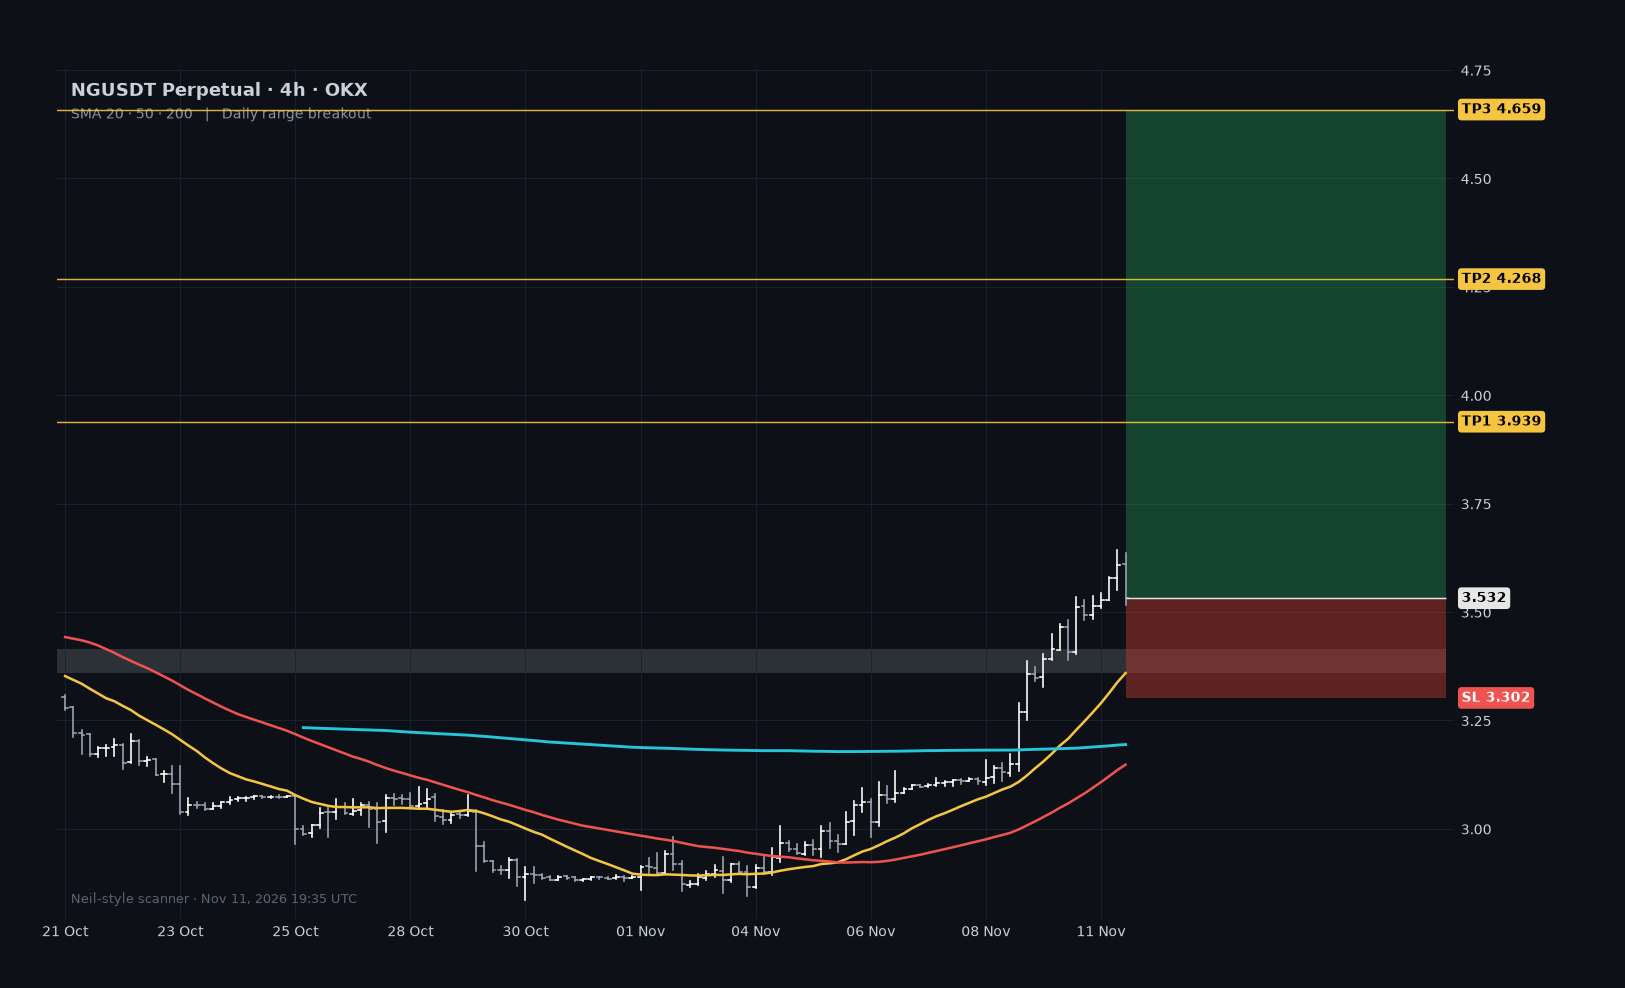
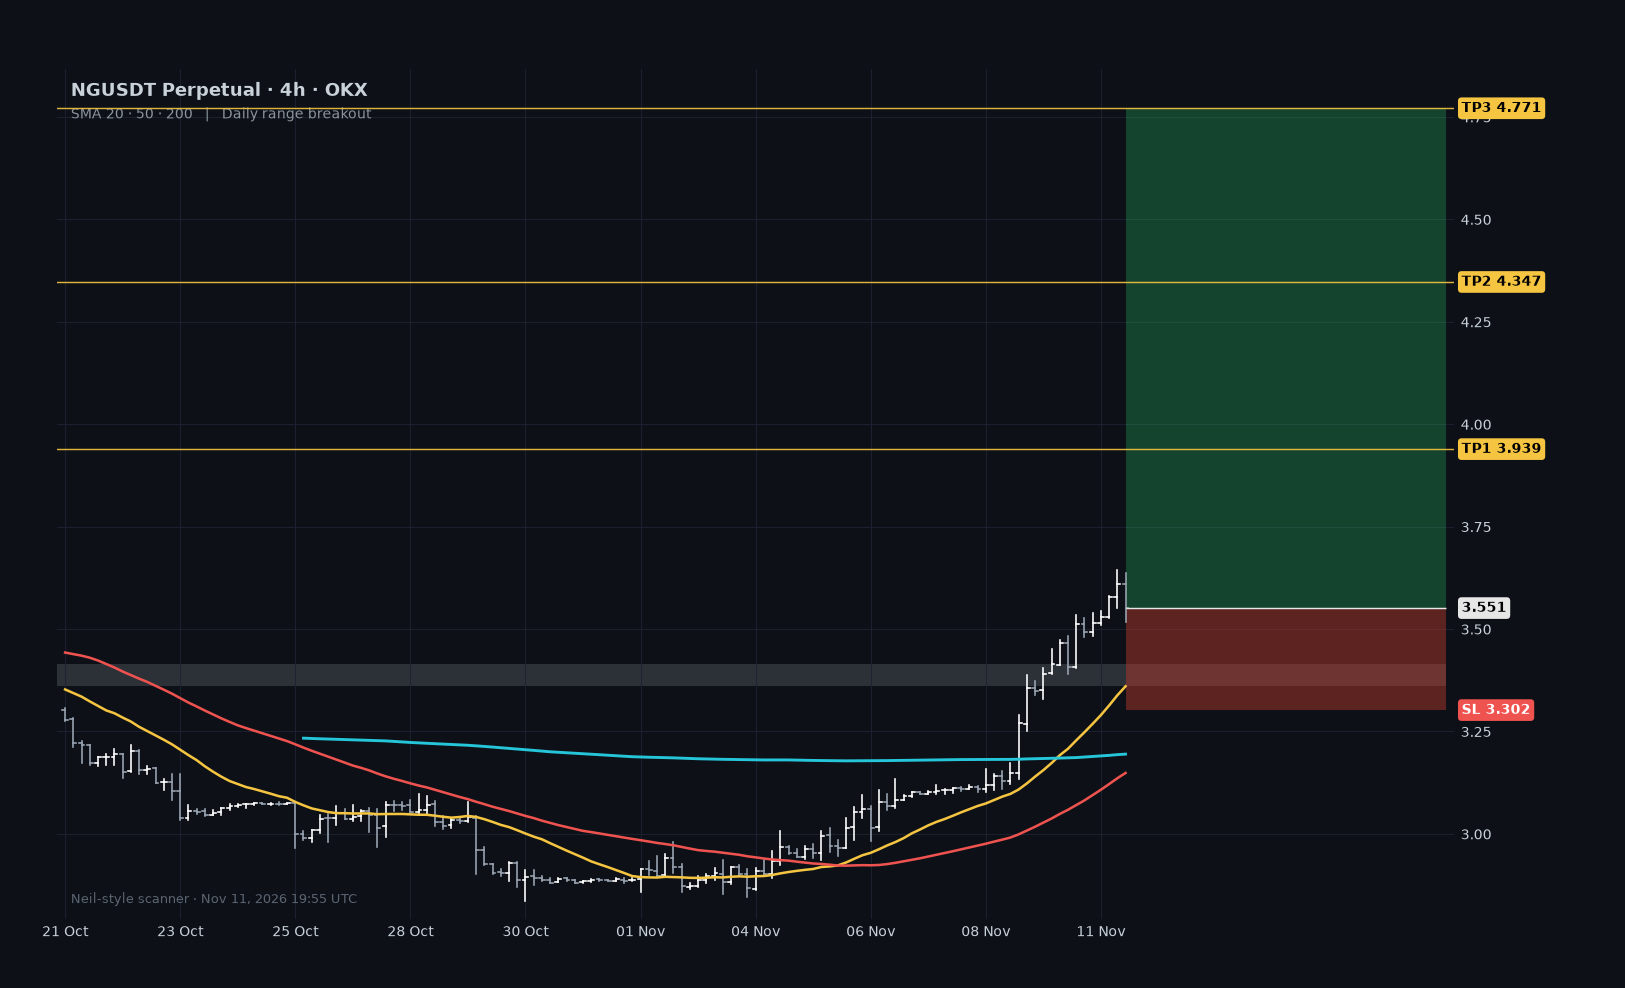
scan 2026-11-11 [skip ci]

diff --git a/output/report.md b/output/report.md
@@ -1,14 +1,14 @@
 # Neil-style setups — 2026-11-11
 
-**BTC context:** BTC chopping around its 4H MAs — no fresh breakdown, but keep size normal and stops honest. (3d -2.1%)
+**BTC context:** BTC chopping around its 4H MAs — no fresh breakdown, but keep size normal and stops honest. (3d -2.0%)
 
-Scanned 157 USDT perps; 35 raw setups; showing top 3.
+Scanned 157 USDT perps; 39 raw setups; showing top 3.
 
 ## 1. ORCL — 4H SR flip / retest  (score 9.5)
 
-> Market long ORCL here at CMP (129.2). No DCA, 4H close under 126.7 for stops, TPs above — TP1 134.6 (2.2R) · TP2 138.5 (3.7R) · TP3 145.6 (6.6R). Once TP1 hits, stops to BE. SR flip trade — level flipped and holding, looking for continuation higher.
+> Market long ORCL here at CMP (129.51). No DCA, 4H close under 126.7 for stops, TPs above — TP1 134.6 (1.8R) · TP2 138.5 (3.2R) · TP3 145.6 (5.7R). Once TP1 hits, stops to BE. SR flip trade — level flipped and holding, looking for continuation higher.
 
-Risk to stop: 1.93% · TP1 2.2R · TP2 3.7R · TP3 6.6R
+Risk to stop: 2.17% · TP1 1.8R · TP2 3.2R · TP3 5.7R
 
 Why it qualifies:
 - 4H closed above the 128.27 resistance 2 bars ago and is holding above it, low already retested the level
@@ -16,15 +16,15 @@ Why it qualifies:
 - reclaim bar volume 2.5x the 20-bar average
 - above the 1H/4H 200MA
 - still under the daily 200MA
-- 7d: +4.0% vs BTC -7.7% (RS +11.6%)
+- 7d: +4.2% vs BTC -7.5% (RS +11.8%)
 
 ![chart](output/charts/2026-11-11_ORCL.png)
 
 ## 2. AVGOSTOCK — 4H SR flip / retest  (score 9.2)
 
-> Market long AVGOSTOCK here at CMP (349.43). No DCA, 4H close under 342.3 for stops, TPs above — TP1 366.2 (2.4R) · TP2 376.1 (3.7R) · TP3 408.1 (8.2R). Once TP1 hits, stops to BE. SR flip trade — level flipped and holding, looking for continuation higher.
+> Market long AVGOSTOCK here at CMP (350.05). No DCA, 4H close under 342.3 for stops, TPs above — TP1 367.2 (2.2R) · TP2 378 (3.6R) · TP3 408.1 (7.5R). Once TP1 hits, stops to BE. SR flip trade — level flipped and holding, looking for continuation higher.
 
-Risk to stop: 2.04% · TP1 2.4R · TP2 3.7R · TP3 8.2R
+Risk to stop: 2.21% · TP1 2.2R · TP2 3.6R · TP3 7.5R
 
 Why it qualifies:
 - 4H closed above the 346.55 resistance 2 bars ago and is holding above it, low already retested the level
@@ -32,21 +32,21 @@ Why it qualifies:
 - reclaim bar volume 1.4x the 20-bar average
 - above the 1H/4H 200MA
 - still under the daily 200MA
-- 7d: +7.3% vs BTC -7.7% (RS +14.9%)
+- 7d: +7.4% vs BTC -7.5% (RS +15.0%)
 
 ![chart](output/charts/2026-11-11_AVGOSTOCK.png)
 
 ## 3. NG — Daily range breakout  (score 8.6)
 
-> Market long NG here at CMP (3.532). No DCA, 4H close under 3.302 for stops, TPs above — TP1 3.939 (1.8R) · TP2 4.268 (3.2R) · TP3 4.659 (4.9R). Once TP1 hits, stops to BE. Daily range breakout — not missing this one, still looks good.
+> Market long NG here at CMP (3.551). No DCA, 4H close under 3.302 for stops, TPs above — TP1 3.939 (1.6R) · TP2 4.347 (3.2R) · TP3 4.771 (4.9R). Once TP1 hits, stops to BE. Daily range breakout — not missing this one, still looks good.
 
-Risk to stop: 6.51% · TP1 1.8R · TP2 3.2R · TP3 4.9R
+Risk to stop: 7.01% · TP1 1.6R · TP2 3.2R · TP3 4.9R
 
 Why it qualifies:
 - daily close above the 20-day range high 3.387 (1 day(s) ago) and holding
 - range depth 19% → measured move ~3.939
 - above the 1H/4H/daily 200MA
-- 7d: +19.6% vs BTC -7.7% (RS +27.3%)
+- 7d: +20.3% vs BTC -7.5% (RS +27.8%)
 
 ![chart](output/charts/2026-11-11_NG.png)
 
@@ -54,8 +54,8 @@ Why it qualifies:
 
 - CBRS — sr_flip (score 8.91)
 - CXMT — sr_flip (score 8.71)
-- BE — sr_flip (score 8.62)
+- BE — sr_flip (score 8.66)
 - NG — daily_breakout (score 8.6)
-- PIEVERSE — daily_breakout (score 8.59)
-- LIT — sr_flip (score 8.52)
-- NIGHT — daily_breakout (score 8.4)
+- PIEVERSE — daily_breakout (score 8.58)
+- LIT — sr_flip (score 8.51)
+- NIGHT — daily_breakout (score 8.36)
